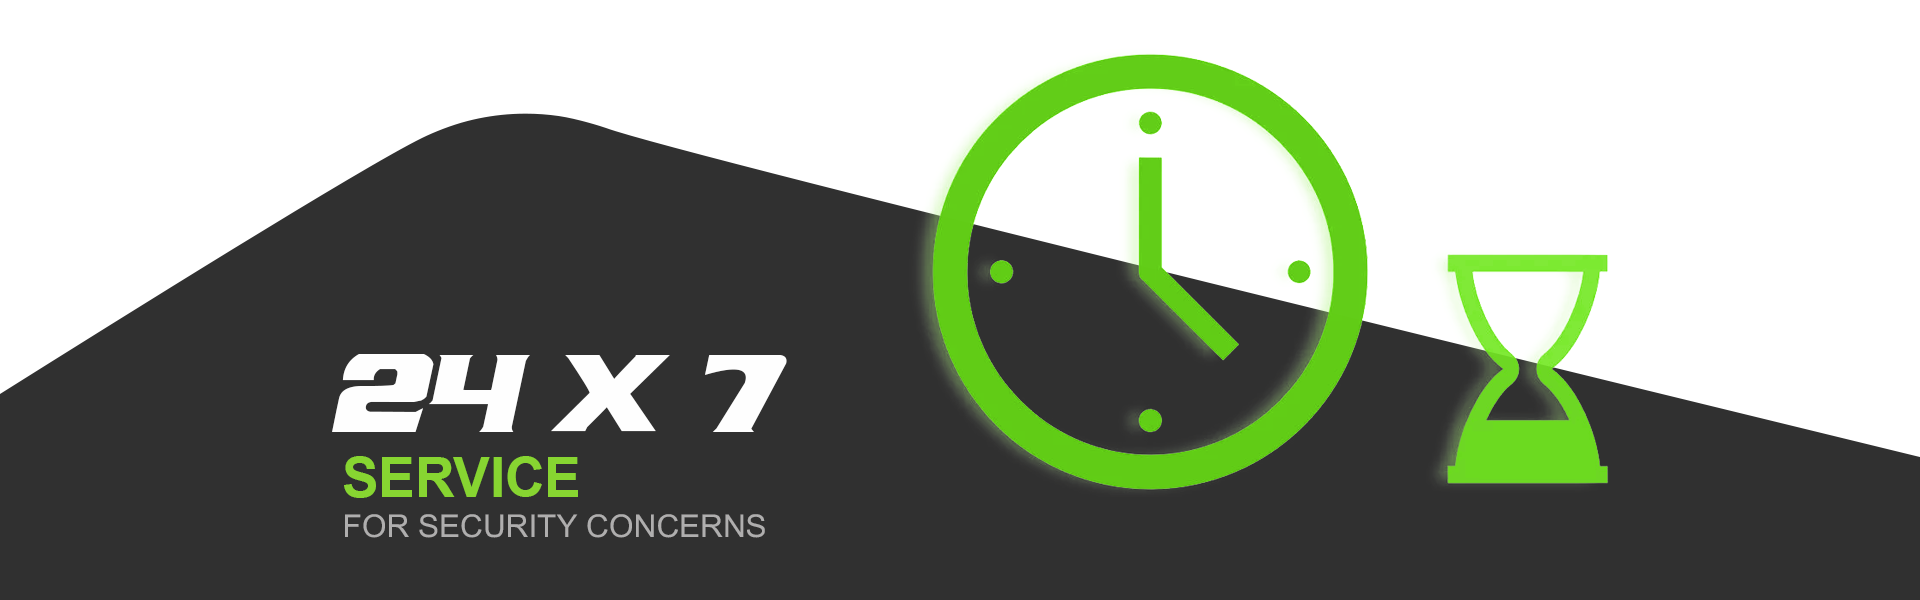
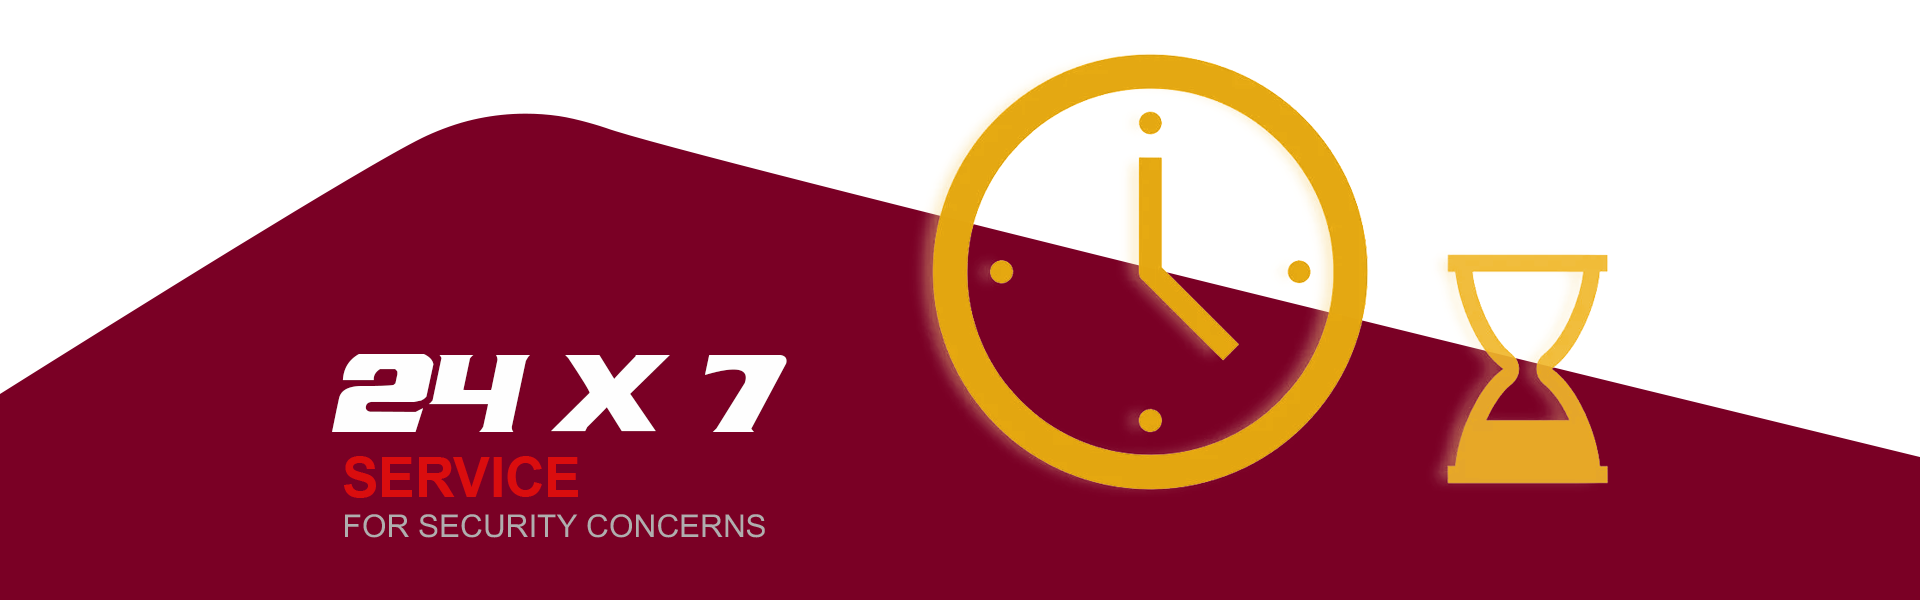
Project changes in UI designs to improve user interaction

diff --git a/postal-service-frontend/src/pages/Dashboard.jsx b/postal-service-frontend/src/pages/Dashboard.jsx
@@ -1,7 +1,7 @@
 // import React, { useState } from "react";
 import "../stylings/dashboard.css";
 import SideBarMenuDashboard from "../components/sideBarMenuDashboard";
-import bgimg from "../images/bottom image.png";
+import bgimg from "../images/Homepage interface bg.jpg";
 import FeatureCard from "../components/FeatureCard";
 import Footer from "../components/Footer";
 import Carosoul from "../components/Carosoul";
@@ -48,39 +48,39 @@ function Dashboard() {
     <main className="homepage">
       <SideBarMenuDashboard />
       {/* Hero Start */}
-      <div className="user">
-        <h1>
-          Welcome to secured postal service <br />
-          {username}
-        </h1>
-      </div>
-      <div className="imgcontainer">
-        <img src={bgimg} alt="" />
-      </div>
+      <div className="dash">
+        <div className="user">
+          <h1>
+            Welcome to secured postal service <br />
+            {username}
+          </h1>
+        </div>
+        <div className="imgcontainer">{/* <img src={bgimg} alt="" /> */}</div>
 
-      <section className="hero">
-        <div className="row container">
-          <div className="column">
-            <h1>SECURE | MAIL | DELIVERY</h1>
-            <p>
-              Sri Lankan postal service expanding existing mail system to offer
-              high demanding security features to protect sensitive information
-              from intermediates by integrating robust web-based encryption and
-              decryption technologies.
-            </p>
-            <div className="buttons">
-              <button className="btn">Read More</button>
-              <button className="btn">Contact Us</button>
+        <section className="hero">
+          <div className="row container">
+            <div className="column">
+              <h1>SECURE | MAIL | DELIVERY</h1>
+              <p>
+                Sri Lankan postal service expanding existing mail system to
+                offer high demanding security features to protect sensitive
+                information from intermediates by integrating robust web-based
+                encryption and decryption technologies.
+              </p>
+              <div className="buttons">
+                <button className="btn">Read More</button>
+                <button className="btn">Contact Us</button>
+              </div>
             </div>
           </div>
-        </div>
-      </section>
+        </section>
 
-      {/* this is the feature card section */}
-      <div>
-        <FeatureCard />
-        <Carosoul />
-        <Footer />
+        {/* this is the feature card section */}
+        <div>
+          <FeatureCard />
+          {/* <Carosoul /> */}
+          <Footer />
+        </div>
       </div>
     </main>
   );

diff --git a/postal-service-frontend/src/stylings/encryption.css b/postal-service-frontend/src/stylings/encryption.css
@@ -1,30 +1,36 @@
 @import url(../components/colors.css);
 
 /* setting background image */
-
+.pageimg {
+  display: flex;
+  justify-content: center; /* centers the image */
+  align-items: center; /* vertically centers the image */
+  /* margin-left: 350px; */
+  width: 100%;
+  height: 36%;
+}
 .panel1 {
   /* border: 2px solid black; */
   width: auto;
   height: auto;
-  margin-left: 100px;
+  margin-left: 350px;
   display: flex;
   flex-wrap: wrap;
 }
 /* how it work section in encryption page */
 .working-section {
-  /* background-image: url("../images/flow.png"); */
   background-color: white;
   width: 100%;
   padding: 5%;
 }
 .leftside {
-  /* border: 2px solid red; */
+  background-color: var(--yellow-color);
 }
 .rightside {
   /* border: 2px solid rgb(0, 255, 42); */
   display: block;
   text-align: center;
-  margin-top: 1vh;
+  background-color: var(--yellow-color);
 }
 .rightside label {
   font-size: 30px;
@@ -134,7 +140,7 @@
 }
 .RSA-btn:hover {
   /* background-color: var(--basic-color); */
-  background: radial-gradient(rgb(217, 22, 86), rgb(100, 13, 95));
+  background: radial-gradient(rgb(220, 60, 23), rgb(122, 0, 37), rgb(64, 0, 0));
   color: white;
 }
 
@@ -150,14 +156,14 @@
 
 #Encrypt-btn {
   margin-top: 30px;
-  margin-left: 5%;
+  margin-left: auto;
   font-weight: 600;
   /* margin-bottom: 20%; */
-  background-color: var(--purple-color);
+  background-color: var(--red-color);
 }
 #Encrypt-btn:hover {
   margin-top: 30px;
-  background: radial-gradient(rgb(217, 22, 86), rgb(100, 13, 95));
+  background: radial-gradient(rgb(220, 60, 23), rgb(122, 0, 37), rgb(64, 0, 0));
   color: white;
 }
 #clear-btn {
@@ -167,10 +173,10 @@
   margin-top: 30px;
   /* margin-bottom: 20%; */
   margin-left: 5%;
-  background-color: var(--basic-color);
+  background-color: var(--orange-color);
 }
 #clear-btn:hover {
-  background: radial-gradient(rgb(217, 22, 86), rgb(100, 13, 95));
+  background: radial-gradient(rgb(220, 60, 23), rgb(122, 0, 37), rgb(64, 0, 0));
   color: white;
 }
 #Download-btn {
@@ -179,7 +185,7 @@
   font-weight: 600;
   margin-top: 30px;
   /* margin-bottom: 20%; */
-  margin-left: 4%;
+  /* margin-left: 1%; */
   background-color: green;
 }
 #Download-btn a {
@@ -192,7 +198,7 @@
   margin-left: 5px;
 }
 #Download-btn:hover {
-  background: radial-gradient(rgb(217, 22, 86), rgb(100, 13, 95));
+  background: radial-gradient(rgb(220, 60, 23), rgb(122, 0, 37), rgb(64, 0, 0));
   color: white;
 }
 

diff --git a/postal-service-frontend/src/pages/Encryption.jsx b/postal-service-frontend/src/pages/Encryption.jsx
@@ -111,8 +111,9 @@ export default function Encryption() {
   return (
     <div classNameName="encryptpage">
       <SideBarMenuDashboard />
-      <img src={bgimg} alt="" srcset="" />
-      <Carosoul />
+      <div className="pageimg">
+        {/* <img src={bgimg} alt="" srcset="" /> */}
+      </div>
 
       {/* start of header section */}
       <div className="panel1 col-md-12">
@@ -251,7 +252,7 @@ export default function Encryption() {
                 >
                   AES
                 </button>
-                <button
+                {/* <button
                   type="button"
                   className={`RSA-btn ${
                     selectedAlgorithm === "DES" ? "selected" : ""
@@ -259,8 +260,8 @@ export default function Encryption() {
                   onClick={() => handleAlgorithmChange("DES")}
                 >
                   DES
-                </button>
-                <button
+                </button> */}
+                {/* <button
                   type="button"
                   className={`RSA-btn ${
                     selectedAlgorithm === "3DES" ? "selected" : ""
@@ -268,7 +269,7 @@ export default function Encryption() {
                   onClick={() => handleAlgorithmChange("3DES")}
                 >
                   3DES
-                </button>
+                </button> */}
               </div>
             </div>
             {/* document format section */}

diff --git a/postal-service-frontend/src/components/sidebar.css b/postal-service-frontend/src/components/sidebar.css
@@ -49,12 +49,12 @@ body.dark {
   width: 350px;
   padding: 10px 14px;
   /* background: var(--secondary-color); */
-  background: radial-gradient(rgb(217, 22, 86), rgb(100, 13, 95));
+  background: radial-gradient(rgb(220, 60, 23), rgb(122, 0, 37), rgb(64, 0, 0));
   transition: var(--tran-05);
   z-index: 100;
 }
 .sidebar.close {
-  width: 100px;
+  width: 350px;
 }
 
 /* ===== Reusable code - Here ===== */
@@ -95,7 +95,7 @@ body.dark {
   opacity: 1;
 }
 .sidebar.close .text {
-  opacity: 0;
+  opacity: 100;
 }
 /* =========================== */
 
@@ -201,15 +201,16 @@ body.dark .sidebar header .toggle {
 }
 
 .sidebar li a:hover {
-  /* background-color: var(--dark-color); */
+  background-color: var(--yellow-color);
   /* border: 2px solid white; */
-  border-bottom: 5px solid var(--yellow-color);
-  border-left: 5px solid var(--yellow-color);
+  /* border-bottom: 5px solid var(--yellow-color);
+  border-left: 5px solid var(--yellow-color); */
   font-weight: 600;
 }
 .sidebar li a:hover .icon,
 .sidebar li a:hover .text {
-  color: var(--yellow-color);
+  /* color: var(--yellow-color); */
+  color: white;
   font-weight: 600;
   font-size: 20px;
 }

diff --git a/postal-service-frontend/src/stylings/dashboard.css b/postal-service-frontend/src/stylings/dashboard.css
@@ -4,6 +4,8 @@
 
 .homepage {
   background-color: var(--ash-color);
+  display: inline-flex;
+  margin-left: auto;
 }
 
 .user h1 {
@@ -11,7 +13,7 @@
   position: absolute;
   /* background-color: white; */
   font-size: 20px;
-  color: rgb(255, 255, 255);
+  color: rgb(0, 0, 0);
   padding-left: 30%;
   padding-top: 2%;
   width: 1880px;
@@ -20,9 +22,11 @@
 .column {
   display: flex;
   flex-direction: column;
-  margin-left: 350px;
+  margin: 0 480px;
+  justify-content: center;
+  align-items: center;
   background-color: rgb(255, 255, 255);
-  margin-top: 50px;
+  margin-top: 150px;
   border-radius: 30px;
 }
 .hero .column h1 {
@@ -47,7 +51,7 @@
   padding-bottom: 30px;
 }
 .buttons button {
-  background: radial-gradient(rgb(217, 22, 86), rgb(100, 13, 95));
+  background: radial-gradient(rgb(220, 60, 23), rgb(122, 0, 37), rgb(64, 0, 0));
 }
 .btn {
   padding: 14px 26px;

diff --git a/postal-service-frontend/src/components/sideBarMenuDashboard.jsx b/postal-service-frontend/src/components/sideBarMenuDashboard.jsx
@@ -16,10 +16,10 @@ export default function SideBarMenuDashboard() {
     const handleSearchClick = () => {
       sidebar.classList.remove("close");
     };
-    toggle.addEventListener("click", handleToggleClick);
+    // toggle.addEventListener("click", handleToggleClick);
 
     return () => {
-      toggle.removeEventListener("click", handleToggleClick);
+      // toggle.removeEventListener("click", handleToggleClick);
     };
   }, []);
 
@@ -39,7 +39,7 @@ export default function SideBarMenuDashboard() {
               <span className="profession">SRI LANKA</span>
             </div>
           </div>
-          <i className="bx bx-chevron-right toggle"></i>
+          {/* <i className="bx bx-chevron-right toggle"></i> */}
         </header>
 
         {/* menu bar list */}

diff --git a/postal-service-frontend/src/components/card.css b/postal-service-frontend/src/components/card.css
@@ -5,7 +5,7 @@
 }
 #features {
   text-align: center;
-  margin-left: 45%;
+  margin-left: 50%;
   font-size: 50px;
   margin-top: 10vh;
   color: rgb(0, 0, 0);
@@ -19,7 +19,8 @@
   flex-wrap: wrap;
   justify-content: center;
   padding-bottom: 50px;
-  padding-left: 100px;
+
+  margin-left: 300px;
 }
 
 .cardbg {
@@ -33,7 +34,7 @@
   flex-wrap: wrap;
   flex-direction: row;
   margin-right: 3vh;
-  /* border: 5px solid rgb(29, 29, 29); */
+
   border-radius: 20px;
   margin-top: 20px;
 }
@@ -64,7 +65,7 @@
   flex-direction: row;
 }
 .cardbottom p {
-  background-color: var(--secondary-color);
+  background-color: var(--dark-color);
   padding: 20px;
   border-radius: 25px;
   font-weight: 600;

diff --git a/postal-service-frontend/src/components/colors.css b/postal-service-frontend/src/components/colors.css
@@ -1,11 +1,12 @@
 :root {
   --basic-color: rgb(165, 1, 1);
-  --secondary-color: rgb(48, 48, 48);
+  --red-color: rgb(122, 0, 37);
+  --secondary-color: rgb(64, 0, 0);
   --ash-color: #ebeaea;
   --dark-color: #1d1d1d;
   --success-color: rgb(1, 165, 1);
   --purple-color: rgb(100, 13, 95);
   --pink-color: rgb(217, 22, 86);
-  --orange-color: rgb(235, 91, 0);
+  --orange-color: rgb(220, 60, 23);
   --yellow-color: rgb(255, 178, 0);
 }

diff --git a/postal-service-frontend/src/components/loader.css b/postal-service-frontend/src/components/loader.css
@@ -4,7 +4,7 @@ body {
   margin: 0;
   width: 100%;
   height: 100vh;
-  background: radial-gradient(rgb(217, 22, 86), rgb(100, 13, 95));
+  background: radial-gradient(rgb(220, 60, 23), rgb(122, 0, 37), rgb(64, 0, 0));
   /* background: radial-gradient(rgb(201, 201, 201), var(--secondary-color)); */
   /* background-image: url("../images/test2.jpg"); */
 }

diff --git a/postal-service-frontend/src/components/footer.css b/postal-service-frontend/src/components/footer.css
@@ -1,6 +1,6 @@
 @import url(../components/colors.css);
 .foot {
-  background-color: var(--secondary-color);
+  background-color: var(--red-color);
   height: auto;
   width: auto;
 }
